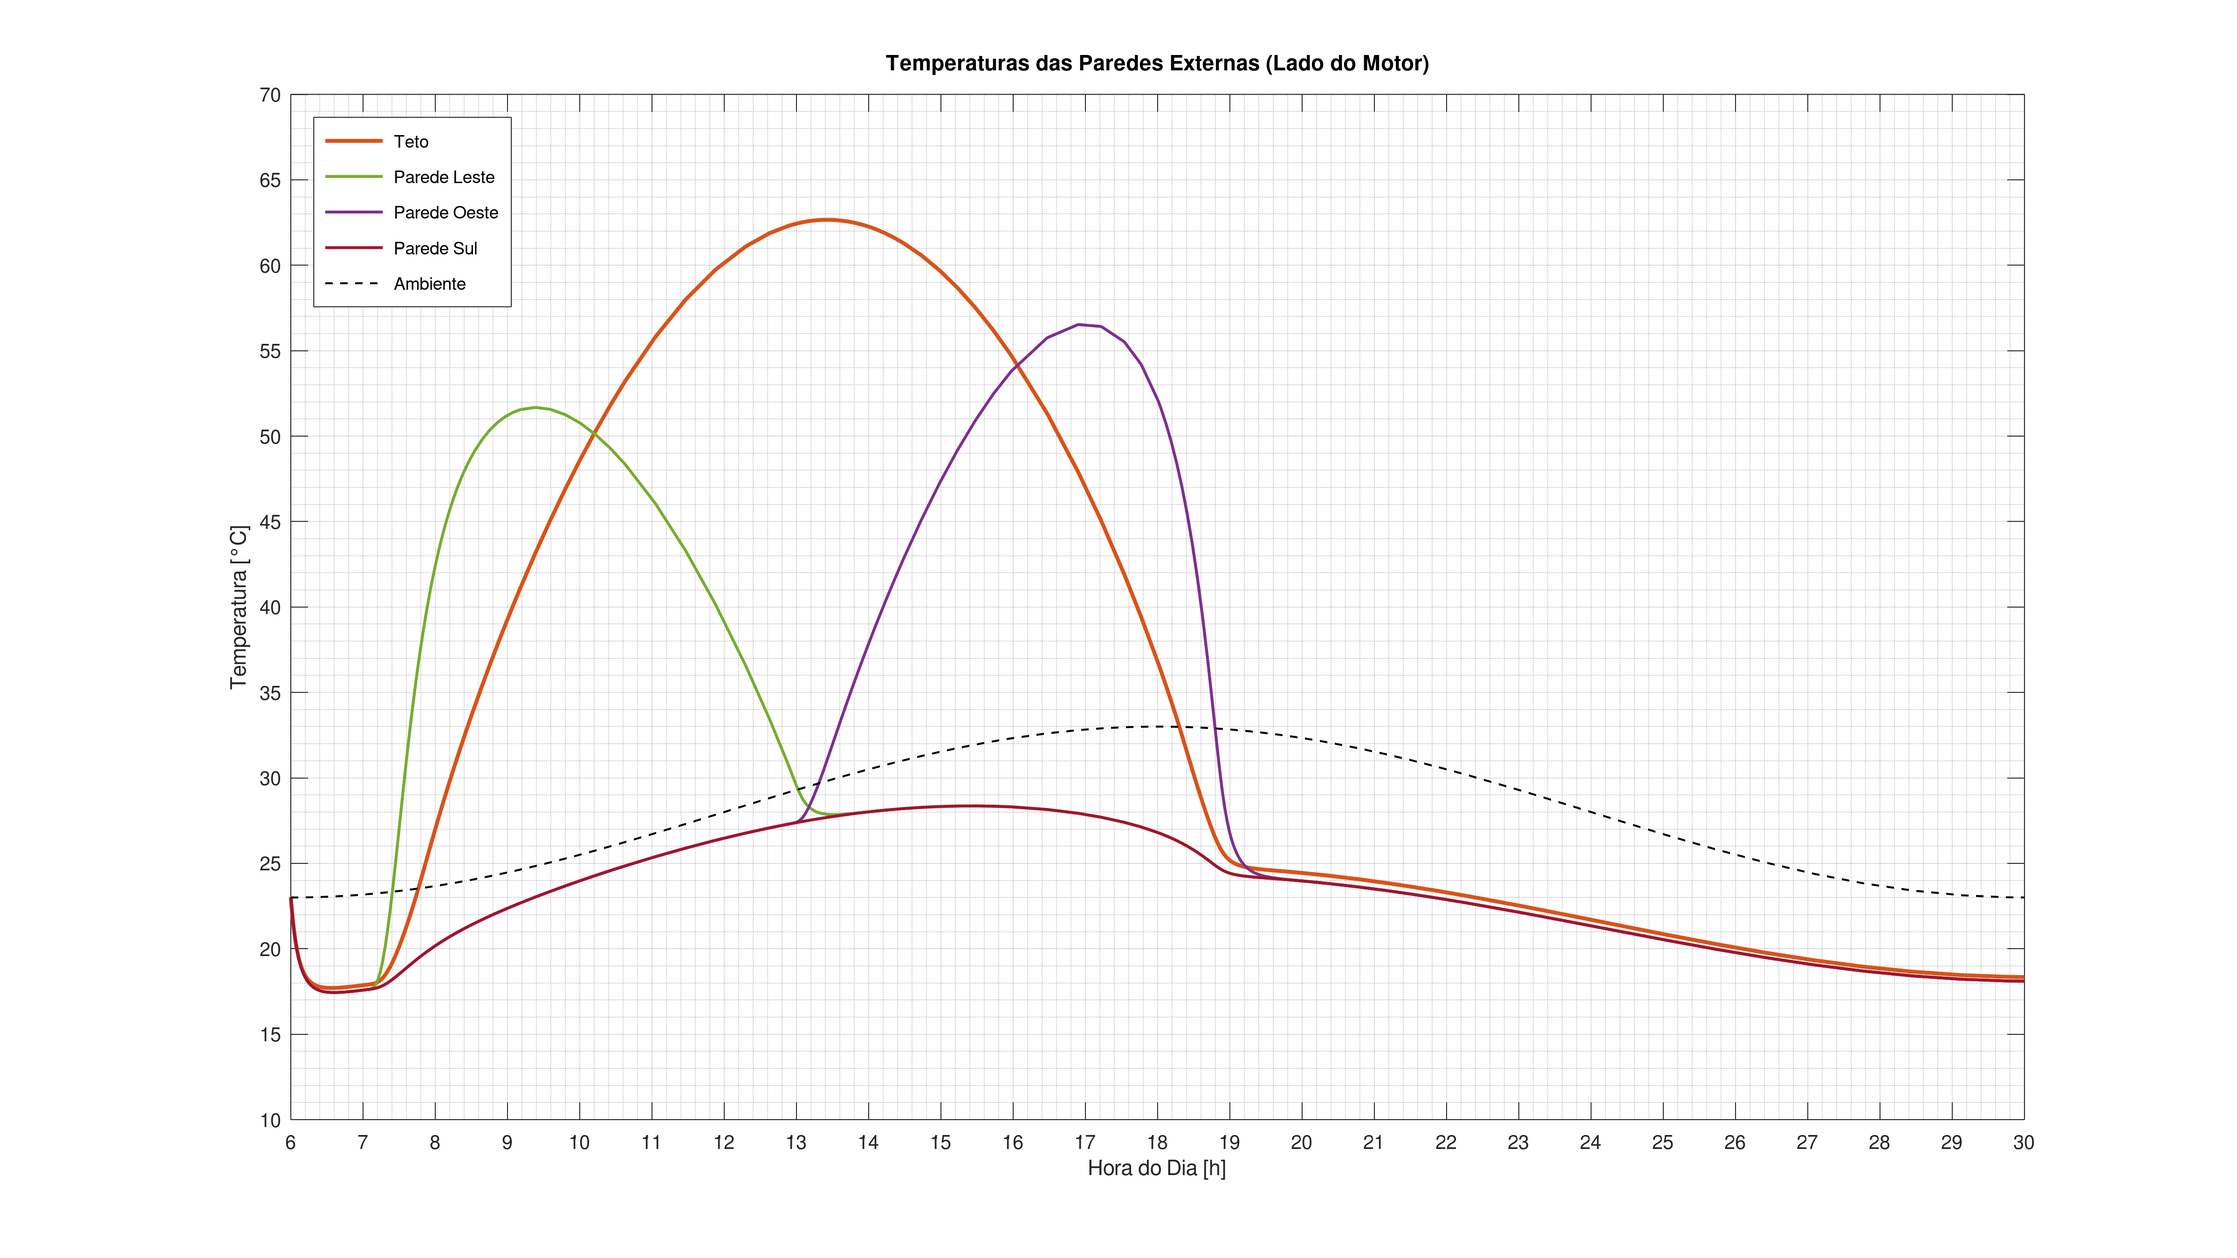
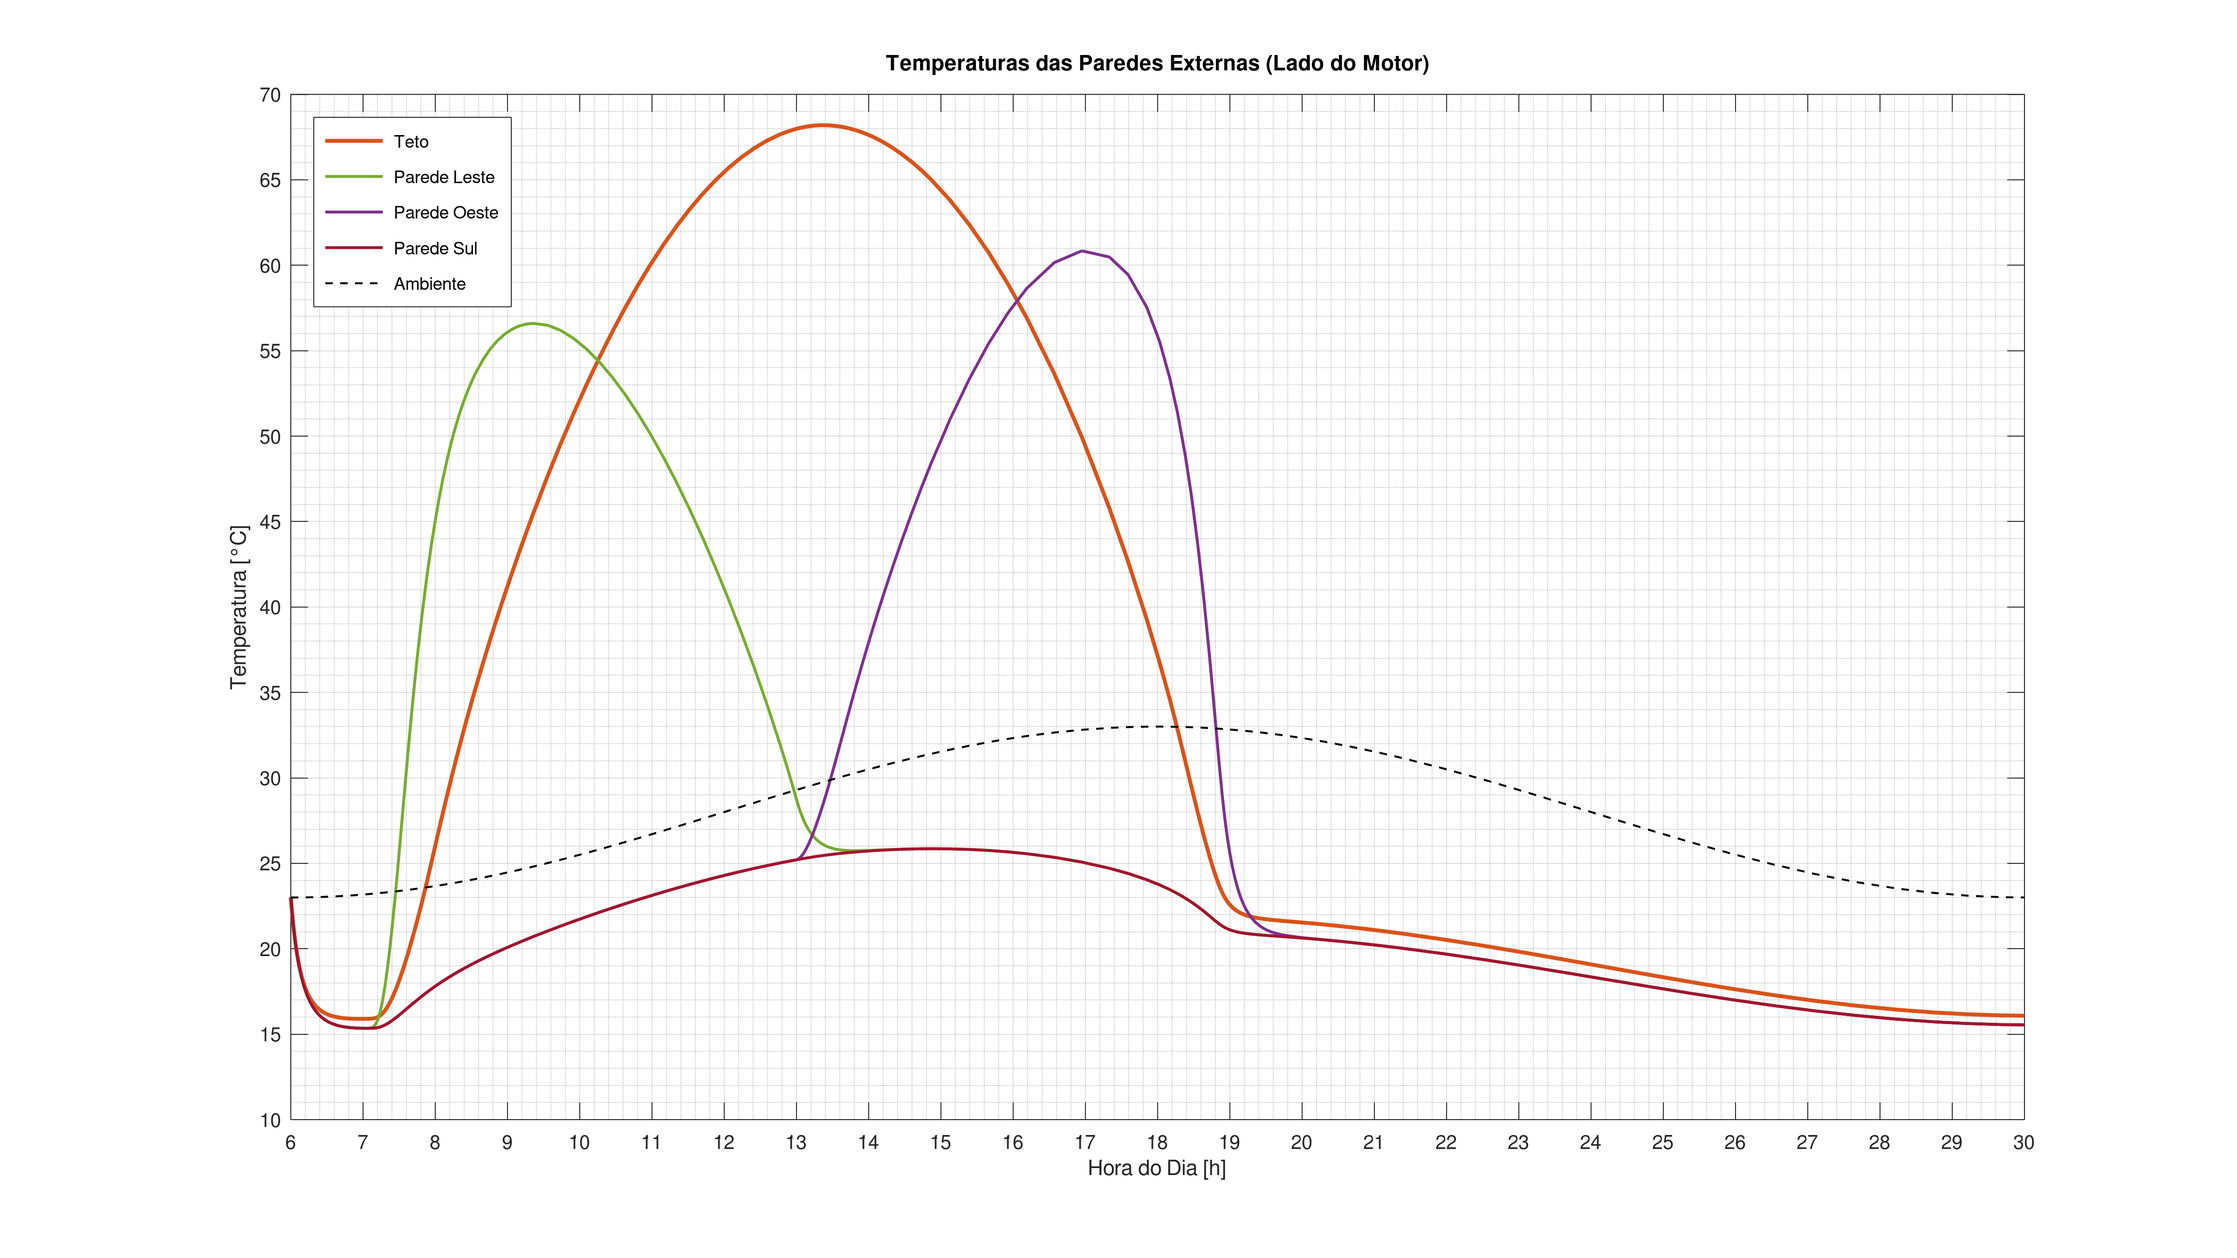
inserindo m/m_s no calculo de conv

diff --git a/sistema_termico_total.m b/sistema_termico_total.m
@@ -1,4 +1,8 @@
 function dYdt = sistema_termico_total(t, Y, p, Tinit_K)
+    % --- sistema_termico_total_corrigido.m (v7.2 - Correção de Argumentos da Convecção) ---
+    % CORREÇÃO: Corrigidos os argumentos passados para a função calc_h_convec
+    % para corresponderem à nova assinatura da função.
+
     % --- Desempacotamento do Vetor de Estados Y (19 estados) ---
     Tmotor = Y(1); Tar_motor = Y(2); Treservatorio = Y(3); m_res_atual = Y(4);
     Tsensor_motor = Y(5); Tar_res = Y(6); Tsensor_res = Y(7); Tgerador = Y(8);
@@ -18,27 +22,28 @@ function dYdt = sistema_termico_total(t, Y, p, Tinit_K)
     m_dot_ar_res_atual = p.m_dot_ar_res; if p.withExhaustorFail, m_dot_ar_res_atual = 2e-3; end
 
     % --- CÁLCULO DAS TROCAS DE CALOR ---
-    % Convecção Interna (Forçada, v=3m/s)
-    h_motor = calc_h_convec(p.D_motor, 3, 0, 'sphere', '');
-    h_gerador = calc_h_convec(p.D_gerador, 3, 0, 'sphere', '');
-    h_bateria = calc_h_convec(p.D_bateria, 3, 0, 'sphere', '');
-    h_int_placa = calc_h_convec(2.5, 3, 0, 'plate', '');
+    props_ar_motor = get_air_properties(Tar_motor);
+    A_cross_section = 2.5 * 2.5;
+    v_int = p.m_dot_ar / (props_ar_motor.rho * A_cross_section);
 
-    % Convecção Externa (Natural, v=0)
-    L_parede_vert = 2.5;
-    L_teto_mot = p.A_parede_teto_motor / (2 * (2.5 + 2.5));
-    L_teto_res = p.A_parede_teto_res / (2 * (2.5 + 3.4));
+    % Convecção Interna (Forçada, com velocidade e propriedades dinâmicas)
+    h_motor = calc_h_convec(p.D_motor, v_int, Tmotor, Tar_motor, 'sphere', '');
+    h_gerador = calc_h_convec(p.D_gerador, v_int, Tgerador, Tar_motor, 'sphere', '');
+    h_bateria = calc_h_convec(p.D_bateria, v_int, Tbateria, Tar_motor, 'sphere', '');
+    h_int_placa_vert = calc_h_convec(2.5, v_int, Tparede_motor_int, Tar_motor, 'plate', 'vertical');
 
-    h_ext_teto_mot = calc_h_convec(L_teto_mot, 0, Tparede_teto_motor - Tamb, 'plate', 'horizontal_up');
-    h_ext_leste_mot = calc_h_convec(L_parede_vert, 0, Tparede_leste_motor - Tamb, 'plate', 'vertical');
-    h_ext_oeste_mot = calc_h_convec(L_parede_vert, 0, Tparede_oeste_motor - Tamb, 'plate', 'vertical');
-    h_ext_sul_mot = calc_h_convec(L_parede_vert, 0, Tparede_sul_motor - Tamb, 'plate', 'vertical');
-    h_ext_norte_res = calc_h_convec(L_parede_vert, 0, Tparede_norte_res - Tamb, 'plate', 'vertical');
-    h_ext_leste_res = calc_h_convec(L_parede_vert, 0, Tparede_leste_res - Tamb, 'plate', 'vertical');
-    h_ext_oeste_res = calc_h_convec(L_parede_vert, 0, Tparede_oeste_res - Tamb, 'plate', 'vertical');
-    h_ext_teto_res = calc_h_convec(L_teto_res, 0, Tparede_teto_res - Tamb, 'plate', 'horizontal_up');
+    % Convecção Externa (Natural)
+    L_parede_vert = 2.5; L_teto_mot = p.A_parede_teto_motor / 10; L_teto_res = p.A_parede_teto_res / 11.8;
+    h_ext_teto_mot = calc_h_convec(L_teto_mot, 0, Tparede_teto_motor, Tamb, 'plate', 'horizontal_up');
+    h_ext_leste_mot = calc_h_convec(L_parede_vert, 0, Tparede_leste_motor, Tamb, 'plate', 'vertical');
+    h_ext_oeste_mot = calc_h_convec(L_parede_vert, 0, Tparede_oeste_motor, Tamb, 'plate', 'vertical');
+    h_ext_sul_mot = calc_h_convec(L_parede_vert, 0, Tparede_sul_motor, Tamb, 'plate', 'vertical');
+    h_ext_norte_res = calc_h_convec(L_parede_vert, 0, Tparede_norte_res, Tamb, 'plate', 'vertical');
+    h_ext_leste_res = calc_h_convec(L_parede_vert, 0, Tparede_leste_res, Tamb, 'plate', 'vertical');
+    h_ext_oeste_res = calc_h_convec(L_parede_vert, 0, Tparede_oeste_res, Tamb, 'plate', 'vertical');
+    h_ext_teto_res = calc_h_convec(L_teto_res, 0, Tparede_teto_res, Tamb, 'plate', 'horizontal_up');
 
-    % Balanços de Calor (Resto do código permanece igual)
+    % Balanços de Calor
     Q_radiador=UA_rad*(Tmotor-Tar_motor); Q_conv_motor_ar=h_motor*p.A_motor*(Tmotor-Tar_motor); Q_conv_gerador_ar=h_gerador*p.A_gerador*(Tgerador-Tar_motor); Q_conv_bateria_ar=h_bateria*p.A_bateria*(Tbateria-Tar_motor);
     Q_vent_motor=p.m_dot_ar*p.cp_ar*(Tamb-Tar_motor);
     A_total_int=p.A_parede_leste_motor+p.A_parede_oeste_motor+p.A_parede_sul_motor+p.A_parede_teto_motor+p.A_parede_motor;
@@ -48,21 +53,21 @@ function dYdt = sistema_termico_total(t, Y, p, Tinit_K)
     Q_rad_para_sul_mot=Q_rad_total_motor*(p.A_parede_sul_motor/A_total_int); Q_rad_para_teto_mot=Q_rad_total_motor*(p.A_parede_teto_motor/A_total_int);
     Q_rad_para_divisoria=Q_rad_total_motor*(p.A_parede_motor/A_total_int);
     Q_cond_div = (p.A_div/(p.esp_larocha/p.k_larocha))*(Tparede_motor_int-Tparede_res_ext);
-    Q_conv_res_ar = h_int_placa*p.A_res*(Treservatorio-Tar_res);
+    Q_conv_res_ar = h_int_placa_vert*p.A_res*(Treservatorio-Tar_res);
     Q_saida_combustivel = m_dot_combustivel*p.cp_res*(Treservatorio-Tinit_K);
     Q_vent_res = m_dot_ar_res_atual*p.cp_ar_res*(Tamb-Tar_res);
-    Q_conv_parede_div_res_ar = h_int_placa*p.A_parede_res*(Tparede_res_ext-Tar_res);
-    Q_conv_in_teto = h_int_placa*p.A_parede_teto_motor*(Tar_motor-Tparede_teto_motor); Q_conv_out_teto=h_ext_teto_mot*p.A_parede_teto_motor*(Tparede_teto_motor-Tamb); Q_rad_out_teto=p.sigma*p.epsilon*p.A_parede_teto_motor*(Tparede_teto_motor^4-Tceu^4); Q_solar_teto=p.alpha*p.A_parede_teto_motor*G.teto;
-    Q_conv_in_leste=h_int_placa*p.A_parede_leste_motor*(Tar_motor-Tparede_leste_motor); Q_conv_out_leste=h_ext_leste_mot*p.A_parede_leste_motor*(Tparede_leste_motor-Tamb); Q_rad_out_leste=p.sigma*p.epsilon*p.A_parede_leste_motor*(Tparede_leste_motor^4-Tceu^4); Q_solar_leste=p.alpha*p.A_parede_leste_motor*G.leste;
-    Q_conv_in_oeste=h_int_placa*p.A_parede_oeste_motor*(Tar_motor-Tparede_oeste_motor); Q_conv_out_oeste=h_ext_oeste_mot*p.A_parede_oeste_motor*(Tparede_oeste_motor-Tamb); Q_rad_out_oeste=p.sigma*p.epsilon*p.A_parede_oeste_motor*(Tparede_oeste_motor^4-Tceu^4); Q_solar_oeste=p.alpha*p.A_parede_oeste_motor*G.oeste;
-    Q_conv_in_sul=h_int_placa*p.A_parede_sul_motor*(Tar_motor-Tparede_sul_motor); Q_conv_out_sul=h_ext_sul_mot*p.A_parede_sul_motor*(Tparede_sul_motor-Tamb); Q_rad_out_sul=p.sigma*p.epsilon*p.A_parede_sul_motor*(Tparede_sul_motor^4-Tceu^4); Q_solar_sul=p.alpha*p.A_parede_sul_motor*G.sul;
-    Q_conv_in_norte_res=h_int_placa*p.A_parede_norte_res*(Tar_res-Tparede_norte_res); Q_conv_out_norte_res=h_ext_norte_res*p.A_parede_norte_res*(Tparede_norte_res-Tamb); Q_rad_out_norte_res=p.sigma*p.epsilon*p.A_parede_norte_res*(Tparede_norte_res^4-Tceu^4); Q_solar_norte_res=p.alpha*p.A_parede_norte_res*G.norte;
-    Q_conv_in_leste_res=h_int_placa*p.A_parede_leste_res*(Tar_res-Tparede_leste_res); Q_conv_out_leste_res=h_ext_leste_res*p.A_parede_leste_res*(Tparede_leste_res-Tamb); Q_rad_out_leste_res=p.sigma*p.epsilon*p.A_parede_leste_res*(Tparede_leste_res^4-Tceu^4); Q_solar_leste_res=p.alpha*p.A_parede_leste_res*G.leste;
-    Q_conv_in_oeste_res=h_int_placa*p.A_parede_oeste_res*(Tar_res-Tparede_oeste_res); Q_conv_out_oeste_res=h_ext_oeste_res*p.A_parede_oeste_res*(Tparede_oeste_res-Tamb); Q_rad_out_oeste_res=p.sigma*p.epsilon*p.A_parede_oeste_res*(Tparede_oeste_res^4-Tceu^4); Q_solar_oeste_res=p.alpha*p.A_parede_oeste_res*G.oeste;
-    Q_conv_in_teto_res=h_int_placa*p.A_parede_teto_res*(Tar_res-Tparede_teto_res); Q_conv_out_teto_res=h_ext_teto_res*p.A_parede_teto_res*(Tparede_teto_res-Tamb); Q_rad_out_teto_res=p.sigma*p.epsilon*p.A_parede_teto_res*(Tparede_teto_res^4-Tceu^4); Q_solar_teto_res=p.alpha*p.A_parede_teto_res*G.teto;
-    R_conv_chao_mot=1/(h_int_placa*p.A_base_motor); R_cond_chao_mot=1/(p.S_motor*p.k_solo); Q_chao_motor=(Tar_motor-p.Tinf)/(R_conv_chao_mot+R_cond_chao_mot);
-    R_conv_chao_res=1/(h_int_placa*p.A_base_res); R_cond_chao_res=1/(p.S_res*p.k_solo); Q_chao_res=(Tar_res-p.Tinf)/(R_conv_chao_res+R_cond_chao_res);
-    Q_conv_ar_parede_div_motor=h_int_placa*p.A_parede_motor*(Tar_motor-Tparede_motor_int);
+    Q_conv_parede_div_res_ar = h_int_placa_vert*p.A_parede_res*(Tparede_res_ext-Tar_res);
+    Q_conv_in_teto = h_int_placa_vert*p.A_parede_teto_motor*(Tar_motor-Tparede_teto_motor); Q_conv_out_teto=h_ext_teto_mot*p.A_parede_teto_motor*(Tparede_teto_motor-Tamb); Q_rad_out_teto=p.sigma*p.epsilon*p.A_parede_teto_motor*(Tparede_teto_motor^4-Tceu^4); Q_solar_teto=p.alpha*p.A_parede_teto_motor*G.teto;
+    Q_conv_in_leste=h_int_placa_vert*p.A_parede_leste_motor*(Tar_motor-Tparede_leste_motor); Q_conv_out_leste=h_ext_leste_mot*p.A_parede_leste_motor*(Tparede_leste_motor-Tamb); Q_rad_out_leste=p.sigma*p.epsilon*p.A_parede_leste_motor*(Tparede_leste_motor^4-Tceu^4); Q_solar_leste=p.alpha*p.A_parede_leste_motor*G.leste;
+    Q_conv_in_oeste=h_int_placa_vert*p.A_parede_oeste_motor*(Tar_motor-Tparede_oeste_motor); Q_conv_out_oeste=h_ext_oeste_mot*p.A_parede_oeste_motor*(Tparede_oeste_motor-Tamb); Q_rad_out_oeste=p.sigma*p.epsilon*p.A_parede_oeste_motor*(Tparede_oeste_motor^4-Tceu^4); Q_solar_oeste=p.alpha*p.A_parede_oeste_motor*G.oeste;
+    Q_conv_in_sul=h_int_placa_vert*p.A_parede_sul_motor*(Tar_motor-Tparede_sul_motor); Q_conv_out_sul=h_ext_sul_mot*p.A_parede_sul_motor*(Tparede_sul_motor-Tamb); Q_rad_out_sul=p.sigma*p.epsilon*p.A_parede_sul_motor*(Tparede_sul_motor^4-Tceu^4); Q_solar_sul=p.alpha*p.A_parede_sul_motor*G.sul;
+    Q_conv_in_norte_res=h_int_placa_vert*p.A_parede_norte_res*(Tar_res-Tparede_norte_res); Q_conv_out_norte_res=h_ext_norte_res*p.A_parede_norte_res*(Tparede_norte_res-Tamb); Q_rad_out_norte_res=p.sigma*p.epsilon*p.A_parede_norte_res*(Tparede_norte_res^4-Tceu^4); Q_solar_norte_res=p.alpha*p.A_parede_norte_res*G.norte;
+    Q_conv_in_leste_res=h_int_placa_vert*p.A_parede_leste_res*(Tar_res-Tparede_leste_res); Q_conv_out_leste_res=h_ext_leste_res*p.A_parede_leste_res*(Tparede_leste_res-Tamb); Q_rad_out_leste_res=p.sigma*p.epsilon*p.A_parede_leste_res*(Tparede_leste_res^4-Tceu^4); Q_solar_leste_res=p.alpha*p.A_parede_leste_res*G.leste;
+    Q_conv_in_oeste_res=h_int_placa_vert*p.A_parede_oeste_res*(Tar_res-Tparede_oeste_res); Q_conv_out_oeste_res=h_ext_oeste_res*p.A_parede_oeste_res*(Tparede_oeste_res-Tamb); Q_rad_out_oeste_res=p.sigma*p.epsilon*p.A_parede_oeste_res*(Tparede_oeste_res^4-Tceu^4); Q_solar_oeste_res=p.alpha*p.A_parede_oeste_res*G.oeste;
+    Q_conv_in_teto_res=h_int_placa_vert*p.A_parede_teto_res*(Tar_res-Tparede_teto_res); Q_conv_out_teto_res=h_ext_teto_res*p.A_parede_teto_res*(Tparede_teto_res-Tamb); Q_rad_out_teto_res=p.sigma*p.epsilon*p.A_parede_teto_res*(Tparede_teto_res^4-Tceu^4); Q_solar_teto_res=p.alpha*p.A_parede_teto_res*G.teto;
+    R_conv_chao_mot=1/(h_int_placa_vert*p.A_base_motor); R_cond_chao_mot=1/(p.S_motor*p.k_solo); Q_chao_motor=(Tar_motor-p.Tinf)/(R_conv_chao_mot+R_cond_chao_mot);
+    R_conv_chao_res=1/(h_int_placa_vert*p.A_base_res); R_cond_chao_res=1/(p.S_res*p.k_solo); Q_chao_res=(Tar_res-p.Tinf)/(R_conv_chao_res+R_cond_chao_res);
+    Q_conv_ar_parede_div_motor=h_int_placa_vert*p.A_parede_motor*(Tar_motor-Tparede_motor_int);
 
     % --- EQUAÇÕES DIFERENCIAIS ---
     dm_res_dt = -m_dot_combustivel;

diff --git a/utils/calc_h_convec.m b/utils/calc_h_convec.m
@@ -1,4 +1,8 @@
-function h = calc_h_convec(D, vel, DeltaT_surface_air, geometry, orientation)
+function h = calc_h_convec(D, vel, Ts, T_fluid, geometry, orientation)
+    % === calc_h_convec.m (v8 - Lógica Defensiva para Solver de EDO) ===
+    % Versão final com lógica robusta que evita erros fatais dentro do
+    % solver de EDOs, usando um caso padrão para orientações inesperadas.
+
     % Propriedades do ar (aproximadas para 300K)
     k_ar = 0.0263;   % Condutividade térmica [W/m.K]
     nu_ar = 1.589e-5;% Viscosidade cinemática [m²/s]
@@ -7,48 +11,54 @@ function h = calc_h_convec(D, vel, DeltaT_surface_air, geometry, orientation)
     g = 9.81;        % Aceleração gravitacional [m/s²]
 
     if vel > 0.1 % --- CONVECÇÃO FORÇADA ---
-        Re = vel * D / nu_ar;
+        % Para convecção forçada, usamos a temperatura do fluido (T_fluid)
+        props = get_air_properties(T_fluid);
+        props_s = get_air_properties(Ts);
+        mu_s = props_s.mu;
+
+        Re = vel * D / props.nu;
+
         if strcmp(geometry, 'sphere')
-            Nu = 2 + (0.4 * Re^0.5 + 0.06 * Re^(2/3)) * Pr^0.4;
+            Nu = 2 + (0.4 * Re^0.5 + 0.06 * Re^(2/3)) * props.pr^0.4 * (props.mu / mu_s)^0.25;
         elseif strcmp(geometry, 'plate')
-            Nu = 0.664 * Re^0.5 * Pr^(1/3); % Fluxo laminar
+            Nu = 0.664 * Re^0.5 * props.pr^(1/3); % Fluxo laminar
         else
-            error('Geometria desconhecida para convecção forçada: %s', geometry);
+            Nu = 0; % Geometria desconhecida
         end
 
     else % --- CONVECÇÃO NATURAL ---
-        DeltaT = max(1e-6, abs(DeltaT_surface_air));
-        Ra = (g * beta * DeltaT * D^3 / nu_ar^2) * Pr;
+        % Para convecção natural, usamos a temperatura de filme
+        T_film = (Ts + T_fluid) / 2;
+        props = get_air_properties(T_film);
+
+        DeltaT = abs(Ts - T_fluid);
+        if DeltaT < 1e-6, h = 0; return; end
+
+        Ra = (g * props.beta * DeltaT * D^3) / (props.nu * props.alpha);
 
         if strcmp(geometry, 'sphere')
-            Nu = 2 + (0.589 * Ra^(1/4)) / (1 + (0.469 / Pr)^(9/16))^(4/9);
+            Nu = 2 + (0.589 * Ra^(1/4)) / (1 + (0.469 / props.pr)^(9/16))^(4/9);
 
         elseif strcmp(geometry, 'plate')
-            % --- Lógica Explícita para Orientação da Placa ---
-            switch orientation
-                case 'vertical'
-                    % Correlação de Churchill e Chu para placa vertical
-                    Nu = (0.825 + (0.387 * Ra^(1/6)) / (1 + (0.492 / Pr)^(9/16))^(8/27))^2;
-
-                case 'horizontal_up'
-                    if Ra > 1e7 && Ra < 1e11
-                        Nu = 0.15 * Ra^(1/3); % Turbulento
-                    else
-                        Nu = 0.54 * Ra^(1/4); % Laminar
-                    end
-
-                case 'horizontal_down'
-                    Nu = 0.27 * Ra^(1/4);
-
-                otherwise
-                    error('Orientação de placa desconhecida para convecção natural: %s', orientation);
+            % CORREÇÃO: Lógica com if/elseif/else para ser mais robusta
+            if strcmp(orientation, 'horizontal_up')
+                if Ra > 1e7 && Ra < 1e11, Nu = 0.15 * Ra^(1/3); else, Nu = 0.54 * Ra^(1/4); end
+            elseif strcmp(orientation, 'horizontal_down')
+                Nu = 0.27 * Ra^(1/4);
+            else % Assume 'vertical' como padrão para qualquer outro caso
+                Nu = (0.825 + (0.387 * Ra^(1/6)) / (1 + (0.492 / props.pr)^(9/16))^(8/27))^2;
             end
         else
-            error('Geometria desconhecida para convecção natural: %s', geometry);
+            Nu = 0; % Geometria desconhecida
         end
     end
 
     % Calcula o coeficiente convectivo a partir do Nusselt
-    h = Nu * k_ar / D;
+    h = props.k * Nu / D;
+
+    % Garante que h não é NaN ou Inf para não parar o solver
+    if isnan(h) || isinf(h)
+        h = 0;
+    end
 end
 

diff --git a/utils/get_air_properties.m b/utils/get_air_properties.m
@@ -1,0 +1,36 @@
+function props = get_air_properties(T_K)
+    % === get_air_properties.m ===
+    % Retorna as propriedades do ar atmosférico a uma dada temperatura em Kelvin.
+    % Os dados são interpolados da Tabela A.4 do Incropera, "Fundamentals of
+    % Heat and Mass Transfer".
+
+    % Dados da Tabela A.4 (Ar Atmosférico)
+    % T [K], rho [kg/m^3], cp [J/kg.K], mu*1e7 [N.s/m^2], nu*1e6 [m^2/s], k*1e3 [W/m.K], Pr
+    table_data = [ ...
+        100, 3.5562, 1032,  71.1,  2.00,   9.3, 0.768;
+        150, 2.3675, 1012, 103.4,  4.37,  13.8, 0.744;
+        200, 1.7740, 1007, 132.5,  7.47,  18.1, 0.730;
+        250, 1.4184, 1006, 159.6, 11.25,  22.3, 0.720;
+        300, 1.1614, 1007, 184.6, 15.89,  26.3, 0.707;
+        350, 0.9950, 1009, 208.2, 20.92,  30.0, 0.700;
+        400, 0.8711, 1014, 230.1, 26.41,  33.8, 0.690;
+        450, 0.7740, 1021, 250.7, 32.39,  37.3, 0.686;
+        500, 0.6964, 1030, 270.1, 38.79,  40.7, 0.684;
+        550, 0.6329, 1039, 288.4, 45.57,  43.9, 0.683;
+        600, 0.5804, 1051, 305.8, 52.69,  46.9, 0.685
+    ];
+
+    T_table = table_data(:,1);
+
+    % Interpolação linear para cada propriedade
+    props.rho = interp1(T_table, table_data(:,2), T_K, 'linear', 'extrap');
+    props.cp  = interp1(T_table, table_data(:,3), T_K, 'linear', 'extrap');
+    props.mu  = interp1(T_table, table_data(:,4), T_K, 'linear', 'extrap') * 1e-7;
+    props.nu  = interp1(T_table, table_data(:,5), T_K, 'linear', 'extrap') * 1e-6;
+    props.k   = interp1(T_table, table_data(:,6), T_K, 'linear', 'extrap') * 1e-3;
+    props.pr  = interp1(T_table, table_data(:,7), T_K, 'linear', 'extrap');
+
+    % Calcula as propriedades derivadas
+    props.beta = 1 / T_K; % Para gases ideais
+    props.alpha = props.k / (props.rho * props.cp); % Difusividade térmica
+end

diff --git a/analise/plotar_dados_inmet.m b/analise/plotar_dados_inmet.m
@@ -15,7 +15,7 @@ function [hours_plot, radiation_plot] = process_inmet_data(filename, target_date
         header_lines = 0;
         while header_lines < 10 % Limite para não entrar em loop infinito
             line = fgetl(fid);
-            if ~isempty(strfind(line, 'Data;'))
+              if ~isempty(strfind(line, 'Data;'))
                 break;
             end
             header_lines = header_lines + 1;
